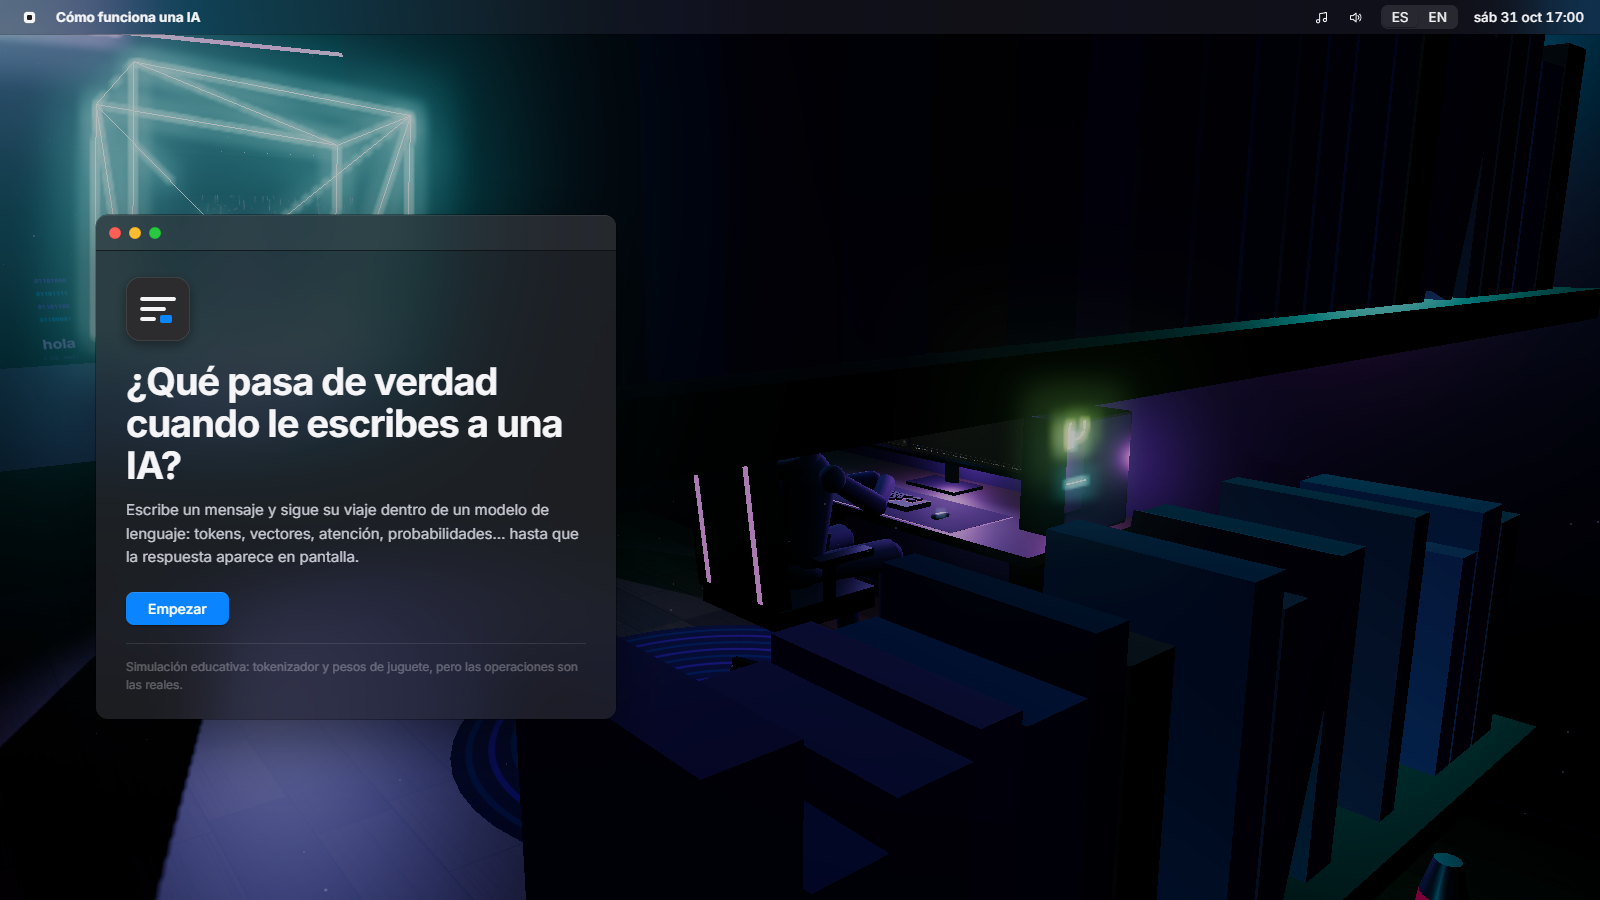
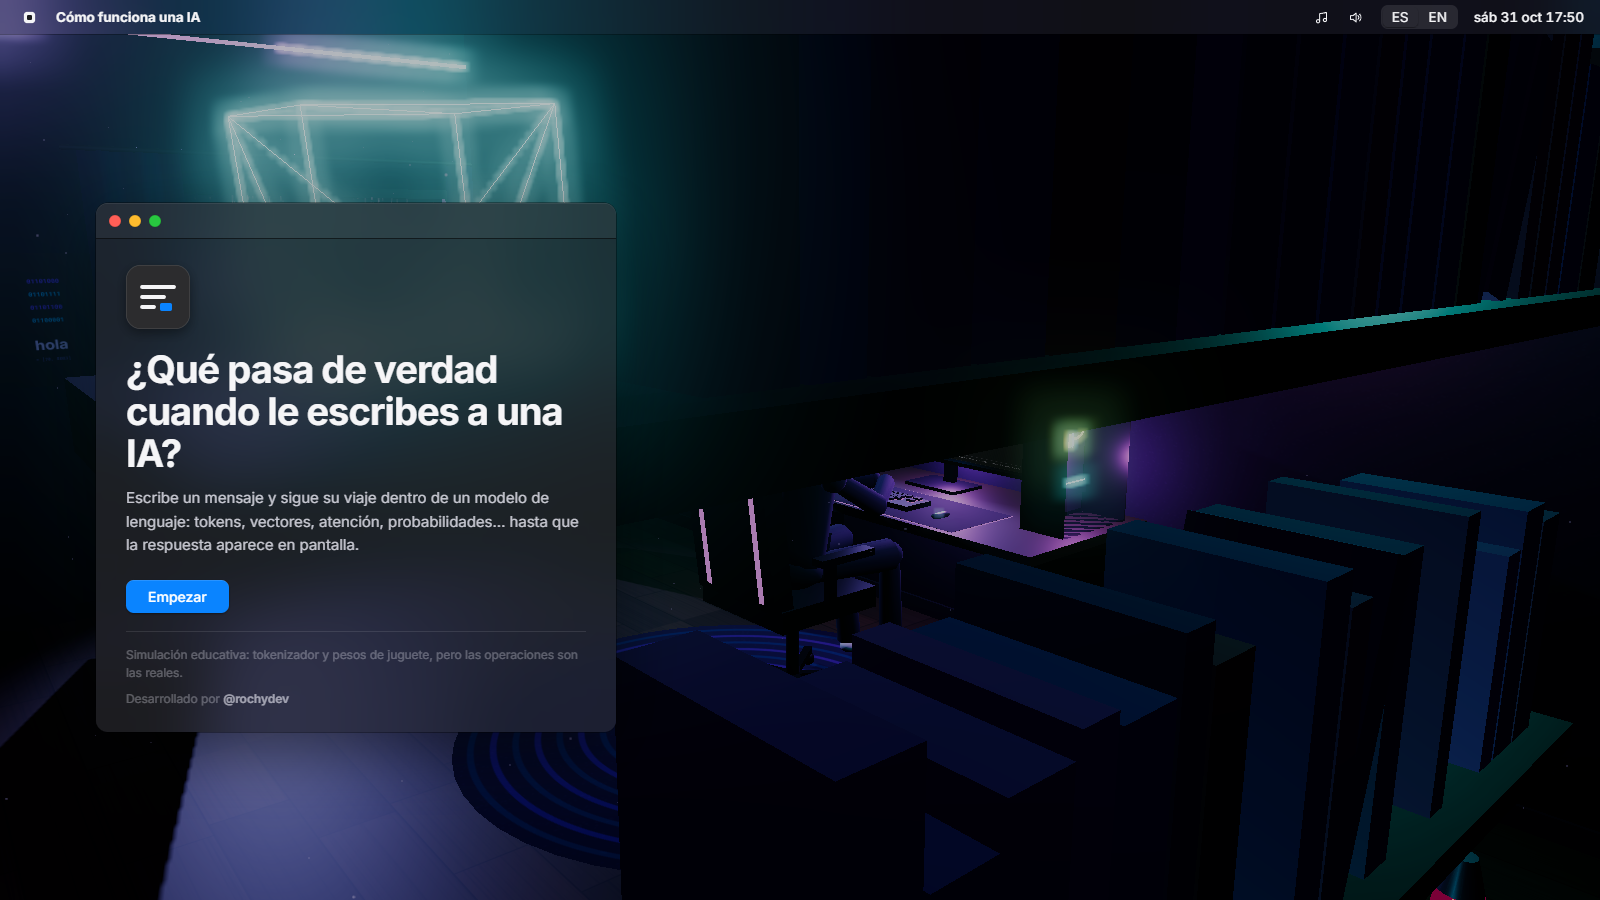
docs: add the welcome screen and author credit to the README

diff --git a/README.md b/README.md
@@ -8,6 +8,8 @@ Una experiencia 3D interactiva que sigue tu prompt **dentro de un modelo de leng
 tokens, vectores, atención, probabilidades… hasta que la respuesta aparece en pantalla.
 Todo ocurre en el monitor de un PC, en una habitación con LEDs, mientras alguien teclea.
 
+Desarrollado por [@rochydev](https://github.com/rochydev).
+
 [![Demo](https://img.shields.io/badge/demo-en%20vivo-1c1b1f?style=flat-square)](https://rochydev.github.io/how-ai-works/)
 [![Three.js](https://img.shields.io/badge/three.js-r169-1c1b1f?style=flat-square&logo=three.js&logoColor=white)](https://threejs.org)
 [![Vite](https://img.shields.io/badge/vite-5-1c1b1f?style=flat-square&logo=vite&logoColor=white)](https://vitejs.dev)
@@ -40,6 +42,8 @@ recorrido completo de un prompt en un LLM (tipo GPT/Claude/Llama):
 > y muestreo autorregresivo top-k.
 
 ## El viaje de un prompt (11 etapas)
+
+<p align="center"><img src="docs/screenshots/00b-welcome.png" width="640" alt="Pantalla de bienvenida" /><br /><sub>Al entrar: bienvenida y créditos, y la escena aparece detrás.</sub></p>
 
 | | |
 |:--:|:--:|
@@ -158,6 +162,7 @@ npm run preview
 | `temp` | `&temp=1.4` | Temperatura inicial |
 | `shot` | `&shot=room` | Plano inicial: `room`, `shoulder`, `screen`, `holo` |
 | `ui` | `&ui=0` | Oculta el HUD (capturas limpias) |
+| `splash` | `?splash=0` | Salta la pantalla de bienvenida |
 
 ### Regenerar capturas y vídeo
 
